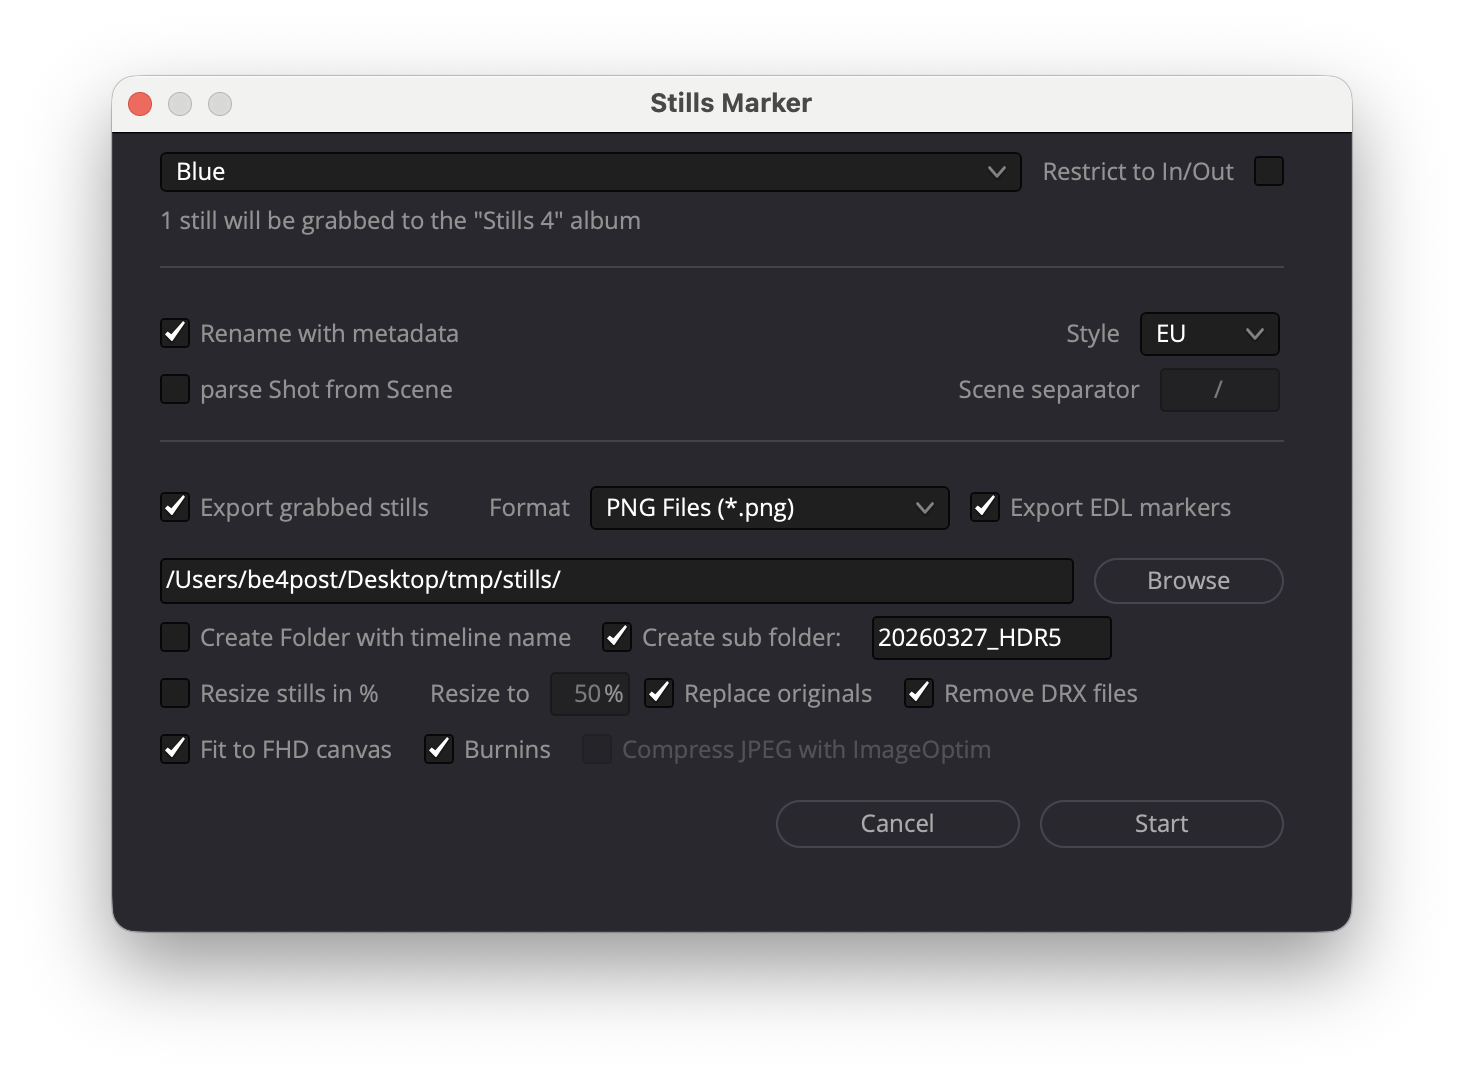
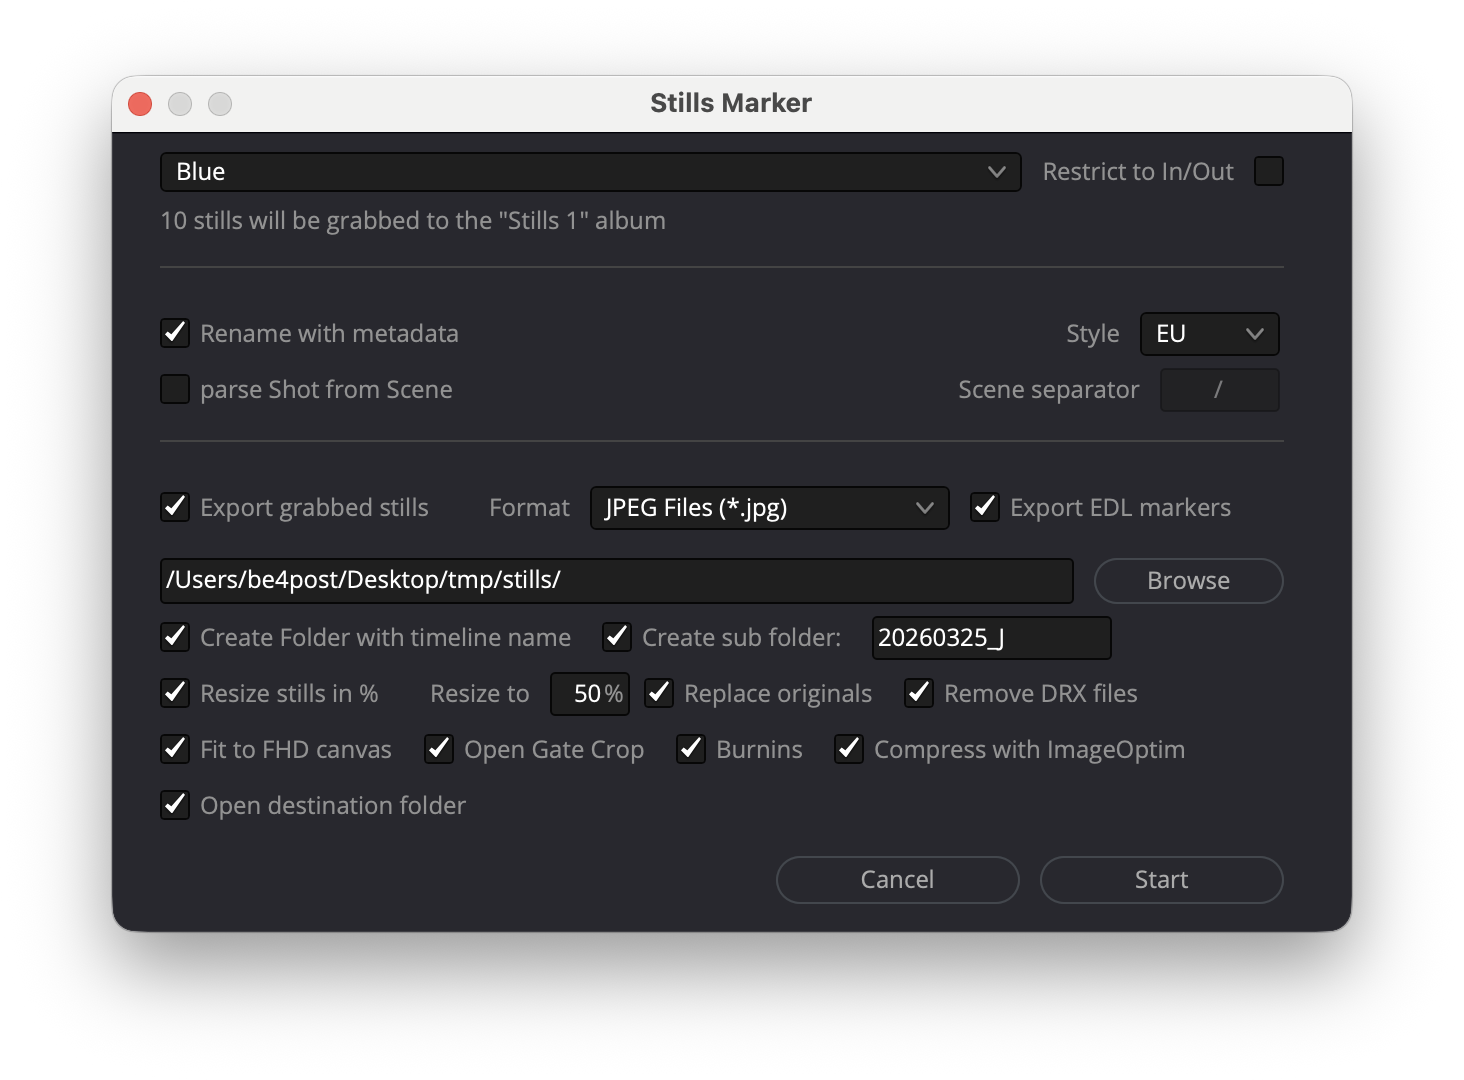
UI / open gate crop framelines

diff --git a/Stills_Marker_python_settings/burnin_ui/app.js b/Stills_Marker_python_settings/burnin_ui/app.js
@@ -1,5 +1,23 @@
 const API_BASE = "http://127.0.0.1:8765";
 
+const OGC_PRESETS = {
+  arri_alexa35: [4608, 3164],
+  arri_alexalf: [4448, 3096],
+  sony_venice1: [6048, 4032],
+  sony_venice2: [8640, 5760],
+};
+
+function getOGCNativeRatio() {
+  const preset = state.open_gate_crop_preset || "arri_alexa35";
+  if (preset === "custom") {
+    const w = Number(state.open_gate_crop_custom_w) || 3;
+    const h = Number(state.open_gate_crop_custom_h) || 2;
+    return w / h;
+  }
+  const dims = OGC_PRESETS[preset] || [4608, 3164];
+  return dims[0] / dims[1];
+}
+
 const els = {
   saveStatus: document.getElementById("saveStatus"),
 
@@ -52,6 +70,7 @@ let state = {
   open_gate_crop_custom_w: 3,
   open_gate_crop_custom_h: 2,
   open_gate_safety: 100,
+  ogc_show_frameline: true,
 };
 
 // --- Undo / Redo Stacks ---
@@ -858,6 +877,7 @@ function bindInputs(){
     openGateCropPreset.addEventListener("change", (e)=>{
       state.open_gate_crop_preset = e.target.value;
       updateOpenGateCropUI();
+      render();
       scheduleSave();
     });
   }
@@ -865,6 +885,7 @@ function bindInputs(){
   if(openGateCropW){
     openGateCropW.addEventListener("input", (e)=>{
       state.open_gate_crop_custom_w = parseInt(e.target.value) || 3;
+      render();
       scheduleSave();
     });
   }
@@ -872,6 +893,7 @@ function bindInputs(){
   if(openGateCropH){
     openGateCropH.addEventListener("input", (e)=>{
       state.open_gate_crop_custom_h = parseInt(e.target.value) || 2;
+      render();
       scheduleSave();
     });
   }
@@ -879,7 +901,15 @@ function bindInputs(){
   if(openGateSafetyEl){
     openGateSafetyEl.addEventListener("input", (e)=>{
       state.open_gate_safety = parseFloat(e.target.value) || 100;
+      render();
       scheduleSave();
+    });
+  }
+  const ogcFramelineToggle = document.getElementById("ogcFramelineToggle");
+  if(ogcFramelineToggle){
+    ogcFramelineToggle.addEventListener("change", (e)=>{
+      state.ogc_show_frameline = e.target.checked;
+      render();
     });
   }
 
@@ -1669,6 +1699,42 @@ function render(){
   });
 
   ctx.globalAlpha = 1.0;
+
+  // --- OGC frameline ---
+  if(state.ogc_show_frameline !== false) {
+    const nativeRatio   = getOGCNativeRatio();
+    const deliveryRatio = 16 / 9;
+    const safetyF       = Math.max(0.5, Math.min(1.0, (state.open_gate_safety ?? 100) / 100));
+
+    // Canvas is 16:9 — native content is pillarboxed inside it
+    const contentW = H * nativeRatio;          // native content width on canvas
+    let cropW = contentW * safetyF;
+    let cropH = (contentW / deliveryRatio) * safetyF;
+
+    cropW = Math.min(cropW, W);
+    cropH = Math.min(cropH, H);
+    const fx = (W - cropW) / 2;
+    const fy = (H - cropH) / 2;
+
+    ctx.save();
+    ctx.strokeStyle = "rgba(255, 165, 0, 0.85)";
+    ctx.lineWidth   = 1.5;
+    ctx.setLineDash([8, 4]);
+    ctx.strokeRect(fx, fy, cropW, cropH);
+
+    // Corner label
+    const safetyPct = Math.round(state.open_gate_safety ?? 100);
+    const preset    = state.open_gate_crop_preset || "arri_alexa35";
+    const label     = `OGC ${preset.replace(/_/g," ")}${safetyPct < 100 ? " · " + safetyPct + "%" : ""}`;
+    ctx.font        = "bold 11px Arial";
+    ctx.textBaseline = "bottom";
+    ctx.fillStyle   = "rgba(0,0,0,0.55)";
+    const lw        = ctx.measureText(label).width;
+    ctx.fillRect(fx + 4, fy + 4, lw + 8, 16);
+    ctx.fillStyle   = "rgba(255,165,0,0.95)";
+    ctx.fillText(label, fx + 8, fy + 19);
+    ctx.restore();
+  }
 
   // --- Lignes filigrane de snap (magnétisme) ---
   if (drag.active && (drag.snapAxisX !== null || drag.snapAxisY !== null)) {

diff --git a/Stills_Marker_python_settings/burnin_ui/index.html b/Stills_Marker_python_settings/burnin_ui/index.html
@@ -102,9 +102,13 @@
           </div>
           <div class="inlineField" style="grid-column:4;">
             <label>Safety Area</label>
-            <div style="display:flex;align-items:center;gap:4px;">
+            <div style="display:flex;align-items:center;gap:8px;">
               <input type="number" id="openGateSafety" min="50" max="100" value="100" step="0.5" style="width:65px" />
               <span style="font-size:12px;color:#999">%</span>
+              <label style="display:flex;align-items:center;gap:4px;color:#666;font-size:11px;cursor:pointer;margin-left:4px;">
+                <input type="checkbox" id="ogcFramelineToggle" checked style="width:12px;height:12px;" />
+                frameline
+              </label>
             </div>
           </div>
         </div>
